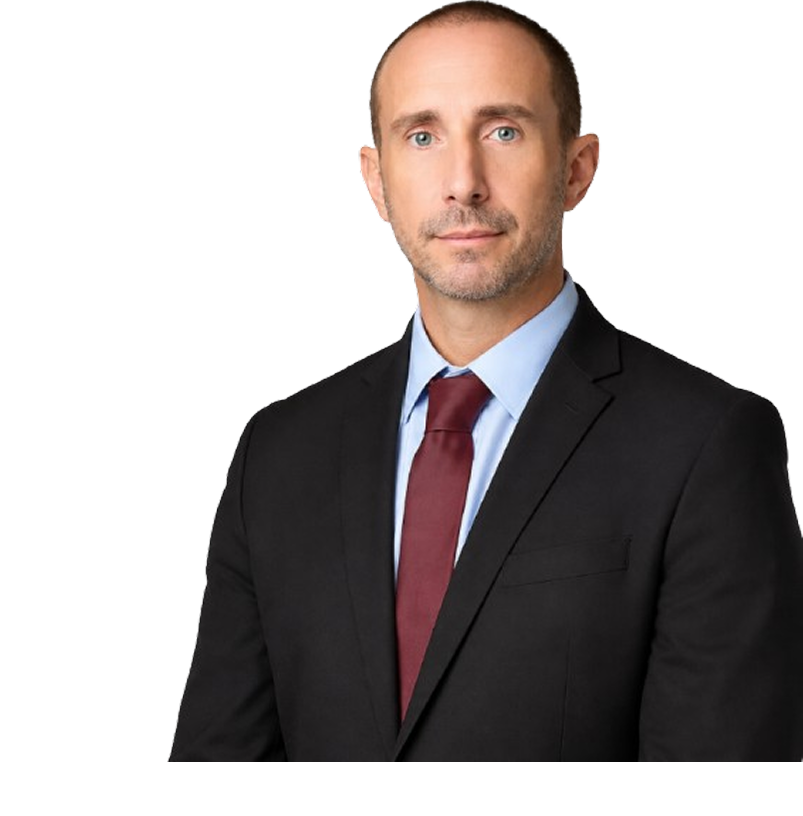
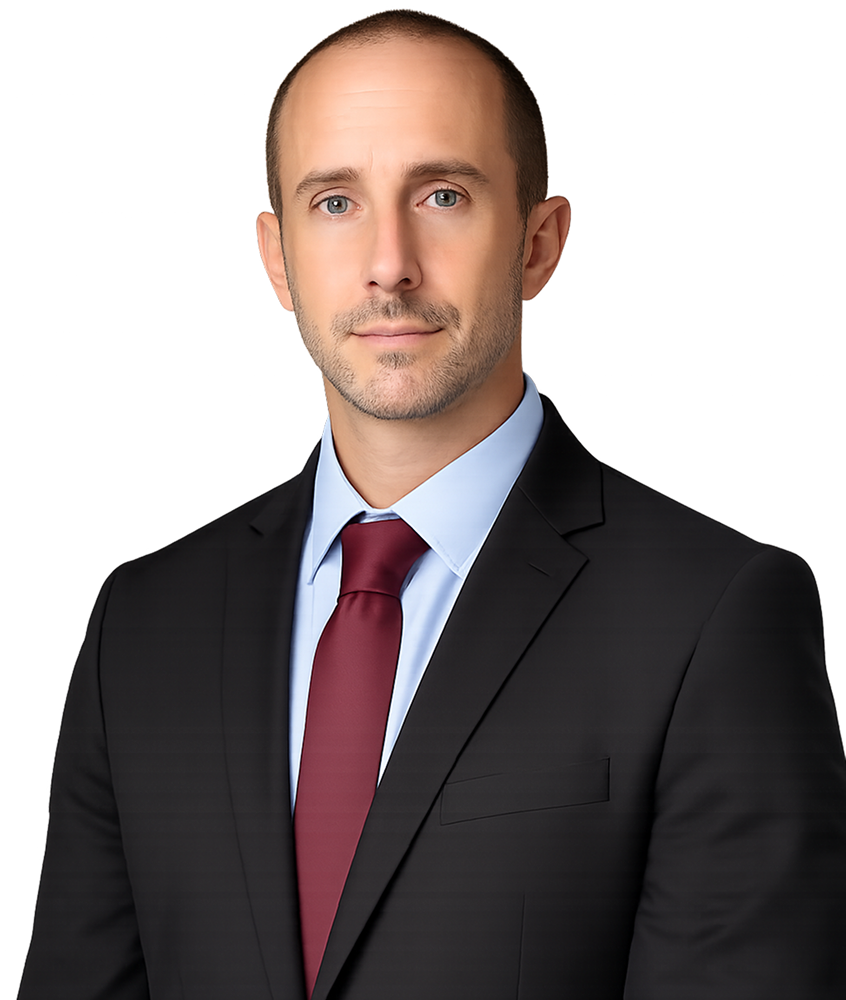
Refactor heading styles for consistency across multiple sections

diff --git a/components/contact/ContactSection.tsx b/components/contact/ContactSection.tsx
@@ -30,7 +30,7 @@ export default function ContactSection() {
     claim_type: "",
     message: "",
   });
-  
+
   const [errors, setErrors] = useState<{ [key: string]: string }>({});
   const [modal, setModal] = useState<{
     isOpen: boolean;
@@ -43,7 +43,9 @@ export default function ContactSection() {
   });
 
   const handleChange = (
-    e: React.ChangeEvent<HTMLInputElement | HTMLSelectElement | HTMLTextAreaElement>
+    e: React.ChangeEvent<
+      HTMLInputElement | HTMLSelectElement | HTMLTextAreaElement
+    >,
   ) => {
     const { name, value } = e.target;
     setFormValues((prev) => ({ ...prev, [name]: value }));
@@ -63,7 +65,8 @@ export default function ContactSection() {
     } else if (!/\S+@\S+\.\S+/.test(formValues.email)) {
       newErrors.email = "Please enter a valid email address";
     }
-    if (!formValues.claim_type) newErrors.claim_type = "Please select a claim type";
+    if (!formValues.claim_type)
+      newErrors.claim_type = "Please select a claim type";
     if (!formValues.message.trim()) newErrors.message = "Message is required";
 
     if (Object.keys(newErrors).length > 0) {
@@ -89,7 +92,8 @@ export default function ContactSection() {
       setModal({
         isOpen: true,
         type: "success",
-        message: "Your case review request has been sent successfully! We will get back to you shortly.",
+        message:
+          "Your case review request has been sent successfully! We will get back to you shortly.",
       });
 
       // Reset values
@@ -105,7 +109,6 @@ export default function ContactSection() {
       setTimeout(() => {
         setModal((prev) => ({ ...prev, isOpen: false }));
       }, 5000);
-
     } catch (error) {
       console.error(error);
 
@@ -113,7 +116,8 @@ export default function ContactSection() {
       setModal({
         isOpen: true,
         type: "error",
-        message: "Something went wrong while sending your request. Please try again later.",
+        message:
+          "Something went wrong while sending your request. Please try again later.",
       });
 
       // Auto-close modal after 5 seconds
@@ -132,7 +136,7 @@ export default function ContactSection() {
           {/* LEFT SIDE */}
           <div className="rounded-[24px] border border-black/5 bg-white p-7 shadow-[0_10px_40px_rgba(0,0,0,0.06)] md:p-10">
             {/* TITLE */}
-            <h2 className="text-4xl font-bold text-black md:text-5xl">
+            <h2 className="text-3xl font-bold text-black md:text-5xl">
               Contact Information
             </h2>
 
@@ -254,7 +258,7 @@ export default function ContactSection() {
           {/* RIGHT SIDE */}
           <div className="rounded-[24px] border border-black/5 bg-white p-7 shadow-[0_10px_40px_rgba(0,0,0,0.06)] md:p-10">
             {/* TITLE */}
-            <h2 className="text-4xl font-bold text-black md:text-5xl">
+            <h2 className="text-3xl font-bold text-black md:text-5xl">
               Request a Free Consultation
             </h2>
 
@@ -269,7 +273,12 @@ export default function ContactSection() {
             </p>
 
             {/* FORM */}
-            <form ref={formRef} onSubmit={handleSubmit} noValidate className="mt-10">
+            <form
+              ref={formRef}
+              onSubmit={handleSubmit}
+              noValidate
+              className="mt-10"
+            >
               {/* ROW */}
               <div className="grid grid-cols-1 gap-5 md:grid-cols-2">
                 {/* NAME */}
@@ -382,7 +391,9 @@ export default function ContactSection() {
                     <option value="Plumbing Damage">Plumbing Damage</option>
                     <option value="Smoke Damage">Smoke Damage</option>
                     <option value="Bad Faith Claims">Bad Faith Claims</option>
-                    <option value="Vandalism And Theft">Vandalism And Theft</option>
+                    <option value="Vandalism And Theft">
+                      Vandalism And Theft
+                    </option>
                   </select>
 
                   <ChevronDown
@@ -453,17 +464,17 @@ export default function ContactSection() {
               animation: modalProgress 5000ms linear forwards;
             }
           `}</style>
-          
+
           {/* Backdrop */}
-          <div 
+          <div
             className="absolute inset-0 bg-black/60 backdrop-blur-sm transition-opacity duration-300"
             onClick={() => setModal((prev) => ({ ...prev, isOpen: false }))}
           />
-          
+
           {/* Modal Content Card */}
           <div className="relative w-full max-w-md transform overflow-hidden rounded-[24px] border border-black/5 bg-white p-8 shadow-[0_20px_50px_rgba(0,0,0,0.15)] transition-all duration-300 scale-100 flex flex-col items-center text-center animate-scaleIn">
             {/* Close Button */}
-            <button 
+            <button
               onClick={() => setModal((prev) => ({ ...prev, isOpen: false }))}
               className="absolute right-4 top-4 text-black/40 hover:text-black transition-colors duration-300"
             >
@@ -471,11 +482,13 @@ export default function ContactSection() {
             </button>
 
             {/* Status Icon Wrapper */}
-            <div className={`flex h-20 w-20 items-center justify-center rounded-full mb-6 ${
-              modal.type === "success" 
-                ? "bg-emerald-50 text-emerald-500 border border-emerald-100 shadow-[0_10px_30px_rgba(16,185,129,0.15)] animate-pulse" 
-                : "bg-rose-50 text-rose-500 border border-rose-100 shadow-[0_10px_30px_rgba(244,63,94,0.15)]"
-            }`}>
+            <div
+              className={`flex h-20 w-20 items-center justify-center rounded-full mb-6 ${
+                modal.type === "success"
+                  ? "bg-emerald-50 text-emerald-500 border border-emerald-100 shadow-[0_10px_30px_rgba(16,185,129,0.15)] animate-pulse"
+                  : "bg-rose-50 text-rose-500 border border-rose-100 shadow-[0_10px_30px_rgba(244,63,94,0.15)]"
+              }`}
+            >
               {modal.type === "success" ? (
                 <CheckCircle2 size={40} />
               ) : (
@@ -507,7 +520,7 @@ export default function ContactSection() {
 
             {/* Progress Bar (5s Countdown indicator) */}
             <div className="absolute bottom-0 left-0 right-0 h-1.5 bg-black/5">
-              <div 
+              <div
                 className={`h-full animate-modal-progress ${
                   modal.type === "success" ? "bg-emerald-500" : "bg-rose-500"
                 }`}

diff --git a/components/home/HeroSection.tsx b/components/home/HeroSection.tsx
@@ -83,7 +83,7 @@ export default function HeroSection() {
         <div className="w-full pb-14 pt-[96px] sm:pt-[110px] lg:pb-16 lg:pt-[154px]">
           <div className="relative flex flex-col lg:block lg:min-h-[520px]">
             <div className="relative z-10 order-2 mt-8 max-w-[800px] lg:mt-0">
-              <h1 className="text-5xl font-bold uppercase leading-[1.16] tracking-normal text-white lg:text-6xl 2xl:text-7xl">
+              <h1 className="text-3xl font-bold uppercase leading-[1.16] tracking-normal text-white lg:text-6xl 2xl:text-7xl">
                 Did Hurricane Milton
                 <br />
                 Damage Your{" "}
@@ -156,8 +156,8 @@ export default function HeroSection() {
                 className="object-contain  object-center"
               />
 
-              <div className="absolute bottom-8 left-1/2 right-auto z-20 w-[min(86%,250px)] -translate-x-1/2 rounded-[9px] border border-primary bg-[#061A38]/40 backdrop-blur-md px-4 py-3 shadow-2xl lg:left-auto lg:bottom-24 lg:-right-[50px] lg:w-auto lg:translate-x-0 lg:px-5 lg:py-4 xl:bottom-20 xl:-right-[0px]">
-                <h3 className="text-base md:text-lg font-bold leading-tight text-primary">
+              <div className="absolute bottom-0 left-1/2 right-auto z-20 w-full md:w-[min(86%,250px)] -translate-x-1/2 rounded-[9px] border border-primary bg-[#061A38]/40 backdrop-blur-md px-4 py-3 shadow-2xl lg:left-auto lg:bottom-24 lg:-right-[50px] lg:w-auto lg:translate-x-0 lg:px-5 lg:py-4 xl:bottom-20 xl:-right-[0px] text-center md:text-left ">
+                <h3 className="text-lg md:text-xl font-bold leading-tight text-primary">
                   Aaron D. Melamed, Esq.
                 </h3>
 
@@ -181,7 +181,7 @@ export default function HeroSection() {
                     alt="Google"
                     width={48}
                     height={48}
-                    className="h-[48px] w-[48px]"
+                    className="h-[48px] w-[48px] mx-auto"
                   />
                 </div>
 

diff --git a/components/home/CTASection.tsx b/components/home/CTASection.tsx
@@ -53,7 +53,7 @@
 
 //           <div className="relative z-10 grid grid-cols-1 items-center gap-10 lg:grid-cols-[minmax(0,720px)_1fr] lg:gap-10">
 //             <div className="max-w-[720px]">
-//               <h2 className="text-4xl font-bold uppercase leading-[1.18] tracking-normal text-white sm:text-5xl lg:text-6xl">
+//               <h2 className="text-3xl font-bold uppercase leading-[1.18] tracking-normal text-white sm:text-5xl lg:text-6xl">
 //                 Don&apos;t Let Insurance
 //                 <br />
 //                 Companies{" "}
@@ -207,7 +207,7 @@ export default function CTASection() {
 
           <div className="relative z-10 grid grid-cols-1 items-center gap-10 lg:grid-cols-[minmax(0,720px)_1fr] lg:gap-10">
             <div className="max-w-[720px]">
-              <h2 className="text-4xl font-bold uppercase leading-[1.18] tracking-normal text-white sm:text-5xl lg:text-6xl">
+              <h2 className="text-3xl font-bold uppercase leading-[1.18] tracking-normal text-white sm:text-5xl lg:text-6xl">
                 Trusted Counsel for
                 <br />
                 <span className="text-primary">Florida Policyholders</span>

diff --git a/components/home/TestimonialsSection.tsx b/components/home/TestimonialsSection.tsx
@@ -119,7 +119,7 @@ function VideoCard({
 
       {/* QUOTE */}
       <div className="mt-6 flex gap-2 px-3">
-        <span className="text-4xl font-bold leading-none text-primary">“</span>
+        <span className="text-3xl font-bold leading-none text-primary">“</span>
 
         <p className="text-lg leading-7 text-black">{item.quote}</p>
       </div>
@@ -135,7 +135,7 @@ export default function TestimonialsSection() {
       <Container>
         {/* HEADING */}
         <div className="mx-auto max-w-[1000px] text-center">
-          <h2 className="text-5xl font-bold uppercase leading-[1.16] tracking-normal text-black lg:text-6xl 2xl:text-7xl">
+          <h2 className="text-3xl font-bold uppercase leading-[1.16] tracking-normal text-black lg:text-6xl 2xl:text-7xl">
             Real Clients. <span className="text-primary">Real Results.</span>
           </h2>
 

diff --git a/components/shared/PageBanner.tsx b/components/shared/PageBanner.tsx
@@ -50,7 +50,7 @@ export default function PageBanner({
       <Container className="relative z-20">
         <div className="flex min-h-[300px] flex-col justify-center py-16 pt-[140px] lg:min-h-[380px] lg:py-20 lg:pt-[170px]">
           {/* TITLE */}
-          <h2 className="max-w-[950px] text-5xl font-bold uppercase leading-[1.16] tracking-normal text-white lg:text-6xl 2xl:text-7xl">
+          <h2 className="max-w-[950px] text-3xl font-bold uppercase leading-[1.16] tracking-normal text-white lg:text-6xl 2xl:text-7xl">
             {title}{" "}
             {highlight && <span className="text-primary">{highlight}</span>}
           </h2>

diff --git a/components/home/PracticeAreasSection.tsx b/components/home/PracticeAreasSection.tsx
@@ -17,7 +17,7 @@ export default function PracticeAreasSection() {
         <div className="grid grid-cols-1 gap-10 lg:grid-cols-[minmax(0,380px)_minmax(0,1fr)] xl:grid-cols-[minmax(0,520px)_minmax(0,1fr)] xl:gap-14">
           {/* LEFT SIDE */}
           <div className="lg:sticky lg:top-28 lg:h-fit">
-            <h2 className="text-5xl font-bold uppercase leading-[1.16] tracking-normal text-black lg:text-6xl">
+            <h2 className="text-3xl font-bold uppercase leading-[1.16] tracking-normal text-black lg:text-6xl">
               <span className="text-primary">Practice</span> Areas
             </h2>
 

diff --git a/components/about/StorySection.tsx b/components/about/StorySection.tsx
@@ -12,7 +12,7 @@ export default function StorySection() {
         <div className="grid grid-cols-1 gap-10 lg:grid-cols-[1fr_480px] lg:items-start lg:gap-16">
           {/* LEFT */}
           <div>
-            <h2 className="max-w-[820px] text-5xl font-bold uppercase leading-[1.16] tracking-normal text-black lg:text-6xl 2xl:text-7xl">
+            <h2 className="max-w-[820px] text-3xl font-bold uppercase leading-[1.16] tracking-normal text-black lg:text-6xl 2xl:text-7xl">
               Pursuing Justice &
               <br />
               Securing Expected <span className="text-primary">Results.</span>

diff --git a/components/home/InsuranceClaimsSection.tsx b/components/home/InsuranceClaimsSection.tsx
@@ -121,7 +121,7 @@ export default function InsuranceClaimsSection() {
       <Container>
         {/* HEADING */}
         <div className="mx-auto max-w-[1100px] text-center">
-          <h2 className="text-5xl font-bold uppercase leading-[1.16] tracking-normal text-black lg:text-6xl 2xl:text-7xl">
+          <h2 className="text-3xl font-bold uppercase leading-[1.16] tracking-normal text-black lg:text-6xl 2xl:text-7xl">
             Insurance Companies{" "}
             <span className="text-primary">Delay, Deny,</span> and
             <span className="text-primary">Underpay</span> Valid Claims Every

diff --git a/components/home/JusticeProcessSection.tsx b/components/home/JusticeProcessSection.tsx
@@ -83,7 +83,7 @@ export default function JusticeProcessSection() {
       <Container>
         {/* HEADING */}
         <div className="mx-auto max-w-[1100px] text-center">
-          <h2 className="text-4xl font-bold uppercase leading-[1.16] tracking-normal text-black sm:text-5xl lg:text-6xl 2xl:text-7xl">
+          <h2 className="text-3xl font-bold uppercase leading-[1.16] tracking-normal text-black sm:text-5xl lg:text-6xl 2xl:text-7xl">
             Your Path To Justice,{" "}
             <span className="text-primary">Step By Step</span>
           </h2>

diff --git a/components/home/BlogSection.tsx b/components/home/BlogSection.tsx
@@ -14,7 +14,7 @@ export default function BlogSection() {
     <section className="bg-[#F5F1EA] py-8 lg:py-16">
       <Container>
         <div className="mx-auto max-w-[1050px] text-center">
-          <h2 className="text-5xl font-bold uppercase leading-[1.16] tracking-normal text-black lg:text-6xl 2xl:text-7xl">
+          <h2 className="text-3xl font-bold uppercase leading-[1.16] tracking-normal text-black lg:text-6xl 2xl:text-7xl">
             Helpful Insights.{" "}
             <span className="text-primary">Real Answers.</span>
           </h2>

diff --git a/components/home/ClaimResultsSection.tsx b/components/home/ClaimResultsSection.tsx
@@ -52,7 +52,7 @@ export default function ClaimResultsSection() {
 
         {/* HEADING */}
         <div className="mx-auto max-w-[1300px] text-center">
-          <h2 className="text-5xl font-bold leading-[1.16] tracking-normal text-white lg:text-6xl 2xl:text-7xl">
+          <h2 className="text-3xl font-bold leading-[1.16] tracking-normal text-white lg:text-6xl 2xl:text-7xl">
             Your Insurance Company Frequently Delays, Denies, or Underpays Valid
             Claims
           </h2>

diff --git a/components/blogs/ArticlesSection.tsx b/components/blogs/ArticlesSection.tsx
@@ -12,7 +12,7 @@ export default function ArticlesSection() {
     <section className="bg-white py-8 lg:py-16">
       <Container>
         <div className="mx-auto max-w-[900px] text-center">
-          <h2 className="text-4xl font-bold uppercase leading-tight text-black md:text-6xl">
+          <h2 className="text-3xl font-bold uppercase leading-tight text-black md:text-6xl">
             Practical Guidance &
             <span className="text-primary"> Clear Answers</span>
           </h2>
